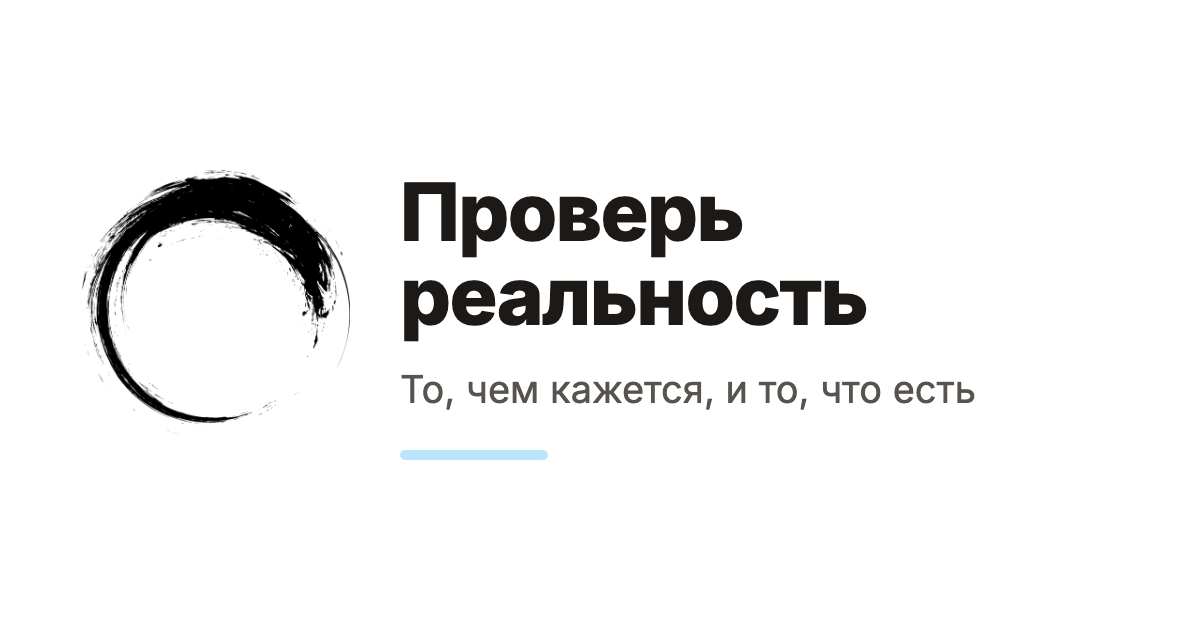
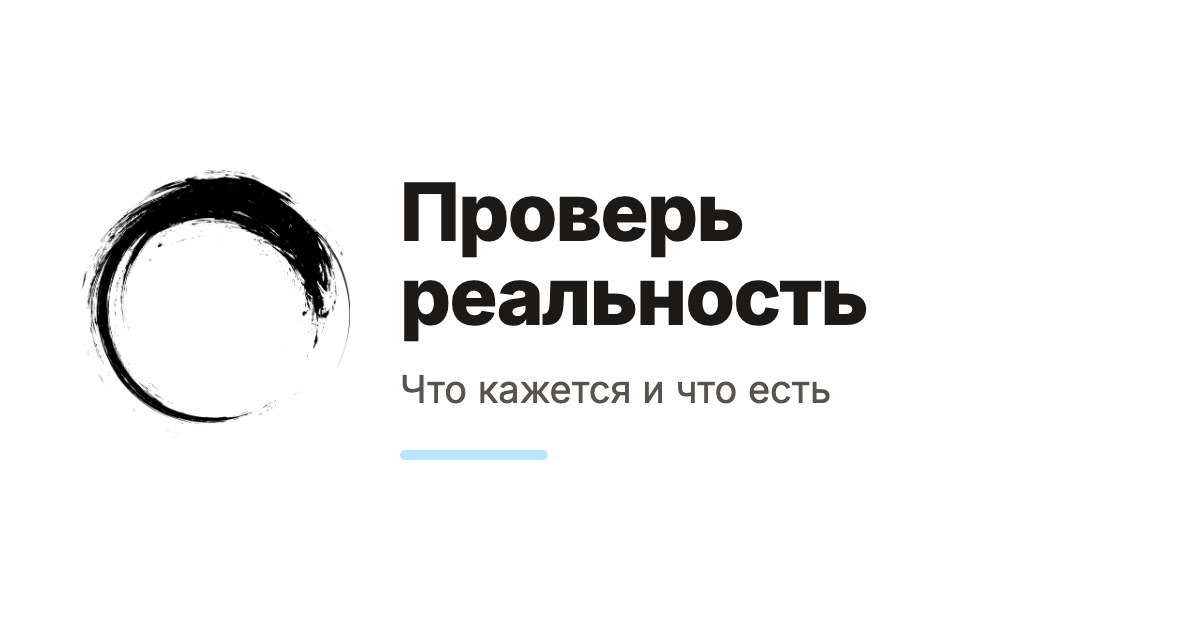
build

Changed region(s): [[0.3392, 0.6032, 0.8325, 0.6635]]

diff --git a/ru/question-reality.html b/ru/question-reality.html
@@ -18,8 +18,8 @@
 <title>Проверь реальность | tellothers.com</title>
 <meta property="og:title" content="Проверь реальность" />
 <meta property="og:locale" content="ru_RU" />
-<meta name="description" content="То, чем кажется, и то, что есть. Всё, что ты видишь, трогаешь и нюхаешь, — только ты сам." />
-<meta property="og:description" content="То, чем кажется, и то, что есть. Всё, что ты видишь, трогаешь и нюхаешь, — только ты сам." />
+<meta name="description" content="Что кажется и что есть. Всё, что ты видишь, трогаешь и нюхаешь, — только ты сам." />
+<meta property="og:description" content="Что кажется и что есть. Всё, что ты видишь, трогаешь и нюхаешь, — только ты сам." />
 <link rel="canonical" href="https://tellothers.com/ru/question-reality" />
 <meta property="og:url" content="https://tellothers.com/ru/question-reality" />
 <meta property="og:site_name" content="tellothers.com" />
@@ -99,7 +99,7 @@
     </h1>
 
       <p class="text-lg sm:text-xl text-stone-500 leading-snug">
-        То, чем кажется, и то, что есть
+        Что кажется и что есть
       </p>
   </header>
 
@@ -127,12 +127,12 @@
   "@type": "Article",
   "name": "Проверь реальность",
   "headline": "Проверь реальность",
-  "description": "То, чем кажется, и то, что есть",
+  "description": "Что кажется и что есть",
   "url": "https://tellothers.com/ru/question-reality",
   "mainEntityOfPage": "https://tellothers.com/ru/question-reality",
   "image": "https://tellothers.com/images/og/question-reality.ru.png",
   "datePublished": "2026-05-25T12:44:42+07:00",
-  "dateModified": "2026-10-26T15:51:23+07:00",
+  "dateModified": "2026-10-26T16:00:11+07:00",
   "inLanguage": "ru",
   "isPartOf": {
     "@type": "WebSite",

diff --git a/ru/index.html b/ru/index.html
@@ -25,7 +25,7 @@
 <meta property="og:site_name" content="tellothers.com" />
 <meta property="og:image" content="https://tellothers.com/images/og-ru.png" />
 <meta property="og:type" content="article" />
-<meta property="article:published_time" content="2026-10-26T01:57:39-07:00" />
+<meta property="article:published_time" content="2026-10-26T02:00:16-07:00" />
 <meta name="twitter:card" content="summary_large_image" />
 <meta property="twitter:image" content="https://tellothers.com/images/og-ru.png" />
 <meta property="twitter:title" content="Сработало? Скажи другим." />
@@ -281,7 +281,7 @@
 
     <a href="/ru/question-reality" class="group block no-underline rounded-lg hover:bg-white p-4 transition-all duration-700 ease-out hover:shadow-lg hover:shadow-stone-900/5">
   <div class="font-sans font-bold text-stone-800 group-hover:text-stone-950 transition duration-700">Проверь реальность</div>
-    <div class="mt-1 text-sm text-stone-600 leading-snug transition duration-700">То, чем кажется, и то, что есть</div>
+    <div class="mt-1 text-sm text-stone-600 leading-snug transition duration-700">Что кажется и что есть</div>
 </a>
 
 

diff --git a/ru/advaita.html b/ru/advaita.html
@@ -147,7 +147,7 @@
       <div class="grid sm:grid-cols-2 gap-3 -mx-4">
             <a href="/ru/question-reality" class="group block no-underline rounded-lg hover:bg-white p-4 transition-all duration-700 ease-out hover:shadow-lg hover:shadow-stone-900/5">
   <div class="font-sans font-bold text-stone-800 group-hover:text-stone-950 transition duration-700">Проверь реальность</div>
-    <div class="mt-1 text-sm text-stone-600 leading-snug transition duration-700">То, чем кажется, и то, что есть</div>
+    <div class="mt-1 text-sm text-stone-600 leading-snug transition duration-700">Что кажется и что есть</div>
 </a>
 
             <a href="/ru/dont-believe-thoughts" class="group block no-underline rounded-lg hover:bg-white p-4 transition-all duration-700 ease-out hover:shadow-lg hover:shadow-stone-900/5">

diff --git a/ru/shunyata.html b/ru/shunyata.html
@@ -145,7 +145,7 @@
       <div class="grid sm:grid-cols-2 gap-3 -mx-4">
             <a href="/ru/question-reality" class="group block no-underline rounded-lg hover:bg-white p-4 transition-all duration-700 ease-out hover:shadow-lg hover:shadow-stone-900/5">
   <div class="font-sans font-bold text-stone-800 group-hover:text-stone-950 transition duration-700">Проверь реальность</div>
-    <div class="mt-1 text-sm text-stone-600 leading-snug transition duration-700">То, чем кажется, и то, что есть</div>
+    <div class="mt-1 text-sm text-stone-600 leading-snug transition duration-700">Что кажется и что есть</div>
 </a>
 
             <a href="/ru/dont-believe-thoughts" class="group block no-underline rounded-lg hover:bg-white p-4 transition-all duration-700 ease-out hover:shadow-lg hover:shadow-stone-900/5">

diff --git a/ru/turiya.html b/ru/turiya.html
@@ -145,7 +145,7 @@
       <div class="grid sm:grid-cols-2 gap-3 -mx-4">
             <a href="/ru/question-reality" class="group block no-underline rounded-lg hover:bg-white p-4 transition-all duration-700 ease-out hover:shadow-lg hover:shadow-stone-900/5">
   <div class="font-sans font-bold text-stone-800 group-hover:text-stone-950 transition duration-700">Проверь реальность</div>
-    <div class="mt-1 text-sm text-stone-600 leading-snug transition duration-700">То, чем кажется, и то, что есть</div>
+    <div class="mt-1 text-sm text-stone-600 leading-snug transition duration-700">Что кажется и что есть</div>
 </a>
 
             <a href="/ru/dont-believe-thoughts" class="group block no-underline rounded-lg hover:bg-white p-4 transition-all duration-700 ease-out hover:shadow-lg hover:shadow-stone-900/5">

diff --git a/ru/brahman.html b/ru/brahman.html
@@ -145,7 +145,7 @@
       <div class="grid sm:grid-cols-2 gap-3 -mx-4">
             <a href="/ru/question-reality" class="group block no-underline rounded-lg hover:bg-white p-4 transition-all duration-700 ease-out hover:shadow-lg hover:shadow-stone-900/5">
   <div class="font-sans font-bold text-stone-800 group-hover:text-stone-950 transition duration-700">Проверь реальность</div>
-    <div class="mt-1 text-sm text-stone-600 leading-snug transition duration-700">То, чем кажется, и то, что есть</div>
+    <div class="mt-1 text-sm text-stone-600 leading-snug transition duration-700">Что кажется и что есть</div>
 </a>
 
             <a href="/ru/other-people" class="group block no-underline rounded-lg hover:bg-white p-4 transition-all duration-700 ease-out hover:shadow-lg hover:shadow-stone-900/5">

diff --git a/ru/the-matrix.html b/ru/the-matrix.html
@@ -155,7 +155,7 @@
       <div class="grid sm:grid-cols-2 gap-3 -mx-4">
             <a href="/ru/question-reality" class="group block no-underline rounded-lg hover:bg-white p-4 transition-all duration-700 ease-out hover:shadow-lg hover:shadow-stone-900/5">
   <div class="font-sans font-bold text-stone-800 group-hover:text-stone-950 transition duration-700">Проверь реальность</div>
-    <div class="mt-1 text-sm text-stone-600 leading-snug transition duration-700">То, чем кажется, и то, что есть</div>
+    <div class="mt-1 text-sm text-stone-600 leading-snug transition duration-700">Что кажется и что есть</div>
 </a>
 
             <a href="/ru/wake-up" class="group block no-underline rounded-lg hover:bg-white p-4 transition-all duration-700 ease-out hover:shadow-lg hover:shadow-stone-900/5">

diff --git a/ru/the-hermit-and-six-toes.html b/ru/the-hermit-and-six-toes.html
@@ -165,7 +165,7 @@
 
             <a href="/ru/question-reality" class="group block no-underline rounded-lg hover:bg-white p-4 transition-all duration-700 ease-out hover:shadow-lg hover:shadow-stone-900/5">
   <div class="font-sans font-bold text-stone-800 group-hover:text-stone-950 transition duration-700">Проверь реальность</div>
-    <div class="mt-1 text-sm text-stone-600 leading-snug transition duration-700">То, чем кажется, и то, что есть</div>
+    <div class="mt-1 text-sm text-stone-600 leading-snug transition duration-700">Что кажется и что есть</div>
 </a>
 
             <a href="/ru/work-for-yourself" class="group block no-underline rounded-lg hover:bg-white p-4 transition-all duration-700 ease-out hover:shadow-lg hover:shadow-stone-900/5">

diff --git a/ru/atman.html b/ru/atman.html
@@ -150,7 +150,7 @@
 
             <a href="/ru/question-reality" class="group block no-underline rounded-lg hover:bg-white p-4 transition-all duration-700 ease-out hover:shadow-lg hover:shadow-stone-900/5">
   <div class="font-sans font-bold text-stone-800 group-hover:text-stone-950 transition duration-700">Проверь реальность</div>
-    <div class="mt-1 text-sm text-stone-600 leading-snug transition duration-700">То, чем кажется, и то, что есть</div>
+    <div class="mt-1 text-sm text-stone-600 leading-snug transition duration-700">Что кажется и что есть</div>
 </a>
 
             <a href="/ru/brain-receiver" class="group block no-underline rounded-lg hover:bg-white p-4 transition-all duration-700 ease-out hover:shadow-lg hover:shadow-stone-900/5">

diff --git a/ru/for-real.html b/ru/for-real.html
@@ -162,7 +162,7 @@
 
             <a href="/ru/question-reality" class="group block no-underline rounded-lg hover:bg-white p-4 transition-all duration-700 ease-out hover:shadow-lg hover:shadow-stone-900/5">
   <div class="font-sans font-bold text-stone-800 group-hover:text-stone-950 transition duration-700">Проверь реальность</div>
-    <div class="mt-1 text-sm text-stone-600 leading-snug transition duration-700">То, чем кажется, и то, что есть</div>
+    <div class="mt-1 text-sm text-stone-600 leading-snug transition duration-700">Что кажется и что есть</div>
 </a>
 
             <a href="/ru/what-it-is" class="group block no-underline rounded-lg hover:bg-white p-4 transition-all duration-700 ease-out hover:shadow-lg hover:shadow-stone-900/5">

diff --git a/ru/grow-inward.html b/ru/grow-inward.html
@@ -150,7 +150,7 @@
 
             <a href="/ru/question-reality" class="group block no-underline rounded-lg hover:bg-white p-4 transition-all duration-700 ease-out hover:shadow-lg hover:shadow-stone-900/5">
   <div class="font-sans font-bold text-stone-800 group-hover:text-stone-950 transition duration-700">Проверь реальность</div>
-    <div class="mt-1 text-sm text-stone-600 leading-snug transition duration-700">То, чем кажется, и то, что есть</div>
+    <div class="mt-1 text-sm text-stone-600 leading-snug transition duration-700">Что кажется и что есть</div>
 </a>
 
             <a href="/ru/meditation" class="group block no-underline rounded-lg hover:bg-white p-4 transition-all duration-700 ease-out hover:shadow-lg hover:shadow-stone-900/5">

diff --git a/ru/why-buddhism-is-true.html b/ru/why-buddhism-is-true.html
@@ -172,7 +172,7 @@
 
             <a href="/ru/question-reality" class="group block no-underline rounded-lg hover:bg-white p-4 transition-all duration-700 ease-out hover:shadow-lg hover:shadow-stone-900/5">
   <div class="font-sans font-bold text-stone-800 group-hover:text-stone-950 transition duration-700">Проверь реальность</div>
-    <div class="mt-1 text-sm text-stone-600 leading-snug transition duration-700">То, чем кажется, и то, что есть</div>
+    <div class="mt-1 text-sm text-stone-600 leading-snug transition duration-700">Что кажется и что есть</div>
 </a>
 
             <a href="/ru/read" class="group block no-underline rounded-lg hover:bg-white p-4 transition-all duration-700 ease-out hover:shadow-lg hover:shadow-stone-900/5">
